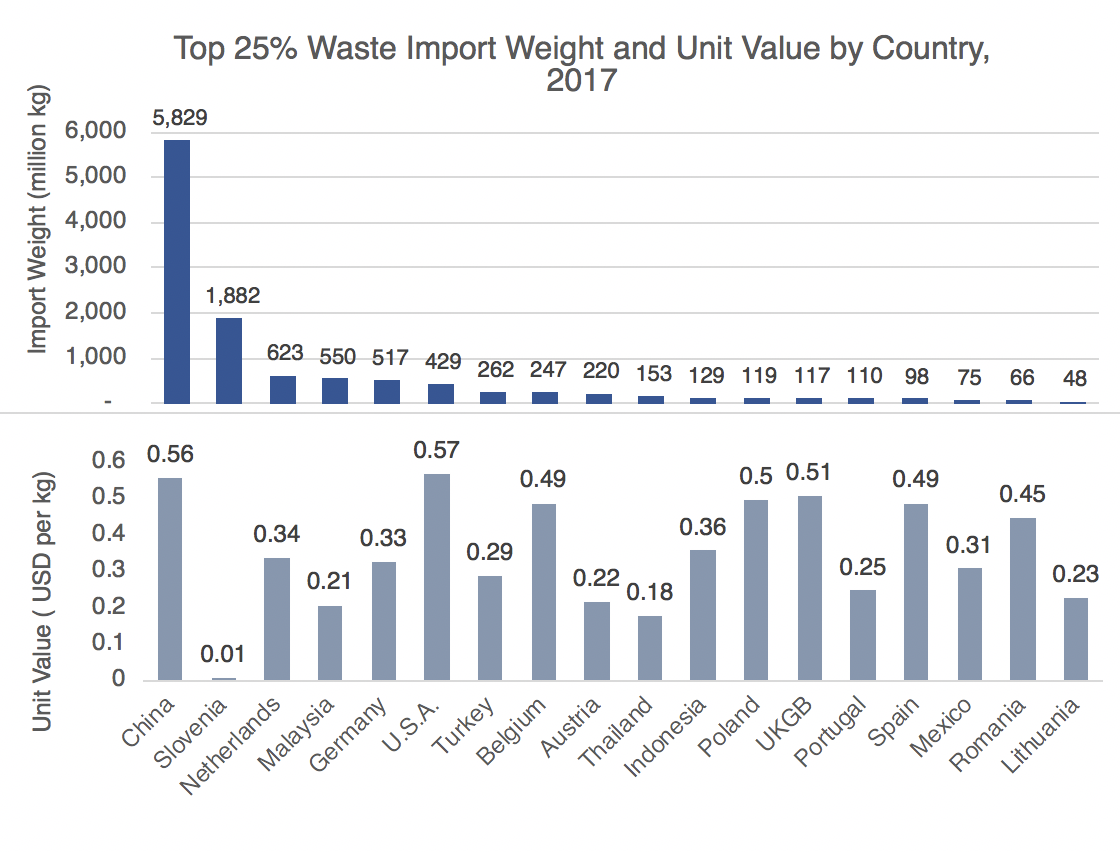
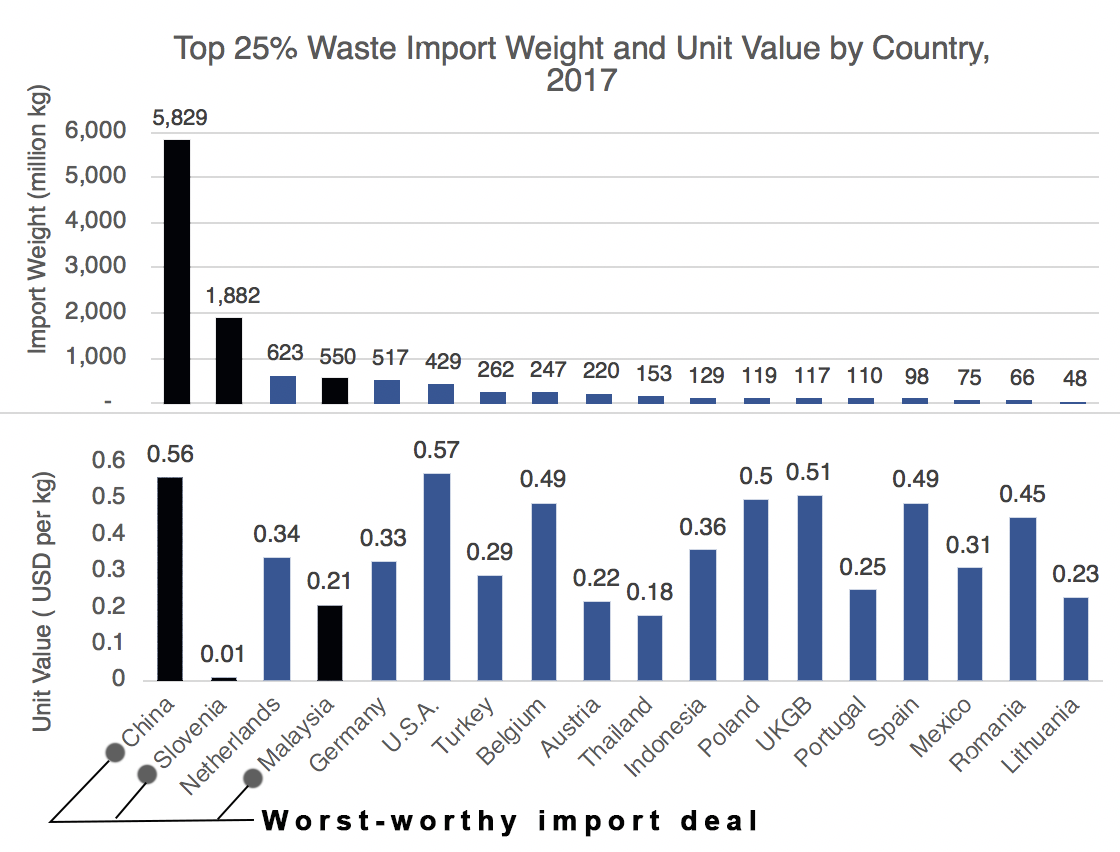
update

diff --git a/joyce/midterm.html b/joyce/midterm.html
@@ -33,6 +33,8 @@
         alt = "top 20 countries in municipal waste generation"> </img>
         <img id="image2" src="https://raw.githubusercontent.com/joyceyuqiliu/midterm/master/joyce/image/slide2.png"
         alt = "top 10 countries in plastic waste export and import"> </img>
+        <img id="image3" src="https://raw.githubusercontent.com/joyceyuqiliu/midterm/master/joyce/image/slide3.png"
+        alt = "top 25% heaviest import but cheap unit price"> </img>
         <img id="image4" src="https://raw.githubusercontent.com/joyceyuqiliu/midterm/master/joyce/image/slide4.png"
         alt = "waste mismanagement"> </img>
         <p id="description">this is the description</p>
@@ -74,6 +76,7 @@
       loadSlide(slides[0])
       document.getElementById("image1").style.display="inherit";
       document.getElementById("image2").style.display="none";
+      document.getElementById("image3").style.display="none";
       document.getElementById("image4").style.display="none";
     });
 
@@ -98,6 +101,7 @@ var slide1 = function(){
     loadSlide(slides[0])
     document.getElementById("image1").style.display="inherit";
     document.getElementById("image2").style.display="none";
+    document.getElementById("image3").style.display="none";
     document.getElementById("image4").style.display="none";
     document.getElementById("slide1").addEventListener("click", addlayer1);
     }
@@ -115,6 +119,7 @@ var slide2 = function(){
     loadSlide(slides[1])
     document.getElementById("image1").style.display="none";
     document.getElementById("image2").style.display="inherit";
+    document.getElementById("image3").style.display="none";
     document.getElementById("image4").style.display="none";
     document.getElementById("slide2").addEventListener("click", addlayer2);
 }
@@ -132,6 +137,7 @@ var slide3 = function(){
       loadSlide(slides[2])
       document.getElementById("image1").style.display="none";
       document.getElementById("image2").style.display="none";
+      document.getElementById("image3").style.display="inherit";
       document.getElementById("image4").style.display="none";
       document.getElementById("slide2").addEventListener("click", addlayer3);
   }
@@ -146,6 +152,7 @@ var slide4 = function(){
     loadSlide(slides[3])
     document.getElementById("image1").style.display="none";
     document.getElementById("image2").style.display="none";
+    document.getElementById("image3").style.display="none";
     document.getElementById("image4").style.display="inherit";
     document.getElementById("slide2").addEventListener("click", addlayer4);
 }
@@ -160,12 +167,12 @@ var slide5 = function(){
     loadSlide(slides[4])
     document.getElementById("image1").style.display="none";
     document.getElementById("image2").style.display="none";
+    document.getElementById("image3").style.display="none";
     document.getElementById("image4").style.display="none";
 }
 }
 $('#slide5').click(function(e){
   slide5();
-  input();
 })
 
 

diff --git a/joyce/css/mdstyle.css b/joyce/css/mdstyle.css
@@ -184,6 +184,22 @@ label {
   background-color: white;
   box-shadow: 0 4px 8px 0 rgba(0, 0, 0, 0.2), 0 6px 20px 0 rgba(0, 0, 0, 0.19);
 }
+#image3{
+  position: absolute;
+  height:40%;
+  left: 0;
+  top: 38%;
+  min-width: 230px;
+  max-width: 588px;
+  min-height: 300px;
+  max-height:200px;
+  width: auto;
+  height: auto;
+  min-width: 240px;
+  background-color: white;
+  box-shadow: 0 4px 8px 0 rgba(0, 0, 0, 0.2), 0 6px 20px 0 rgba(0, 0, 0, 0.19);
+}
+
 #image4{
   position: absolute;
   height:40%;
